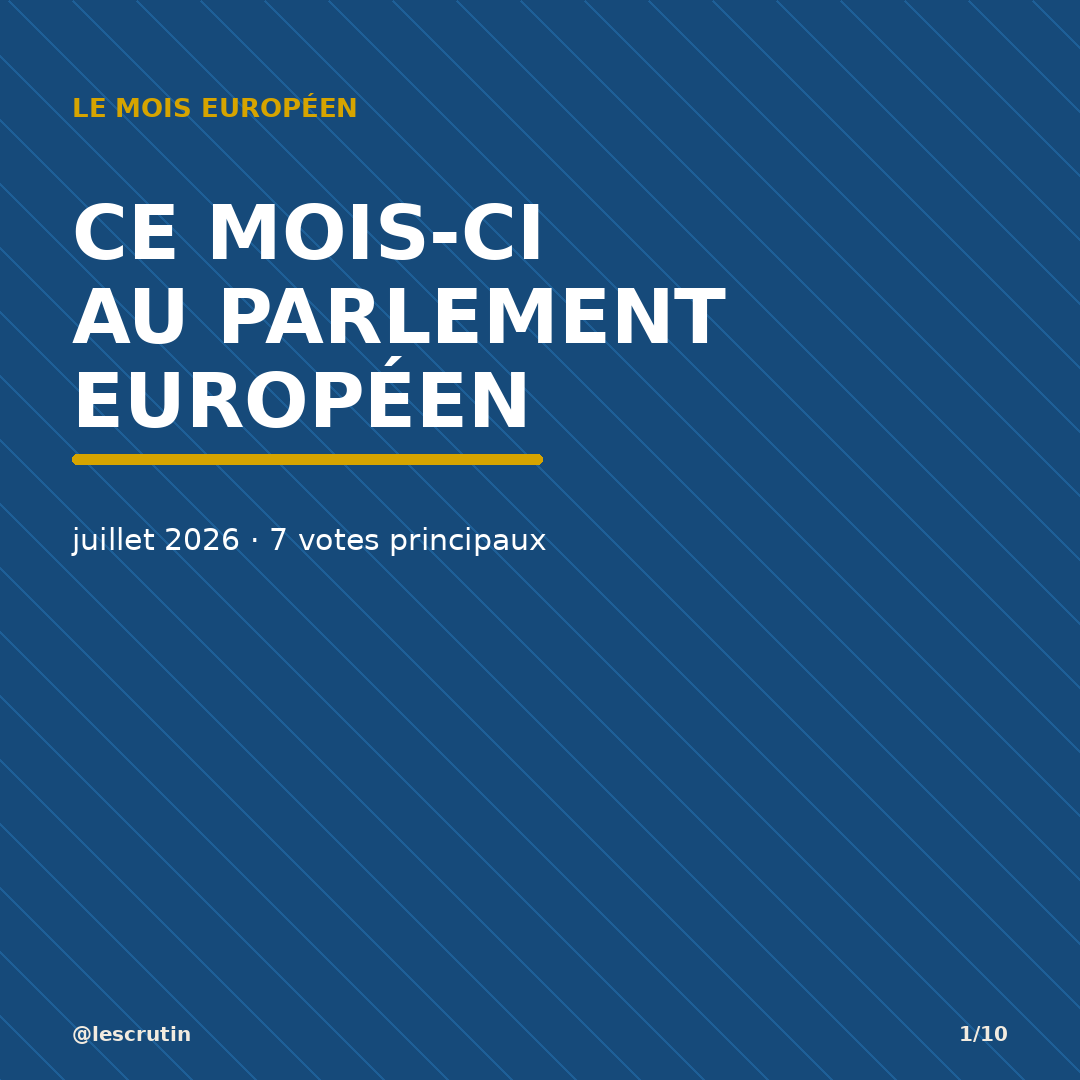
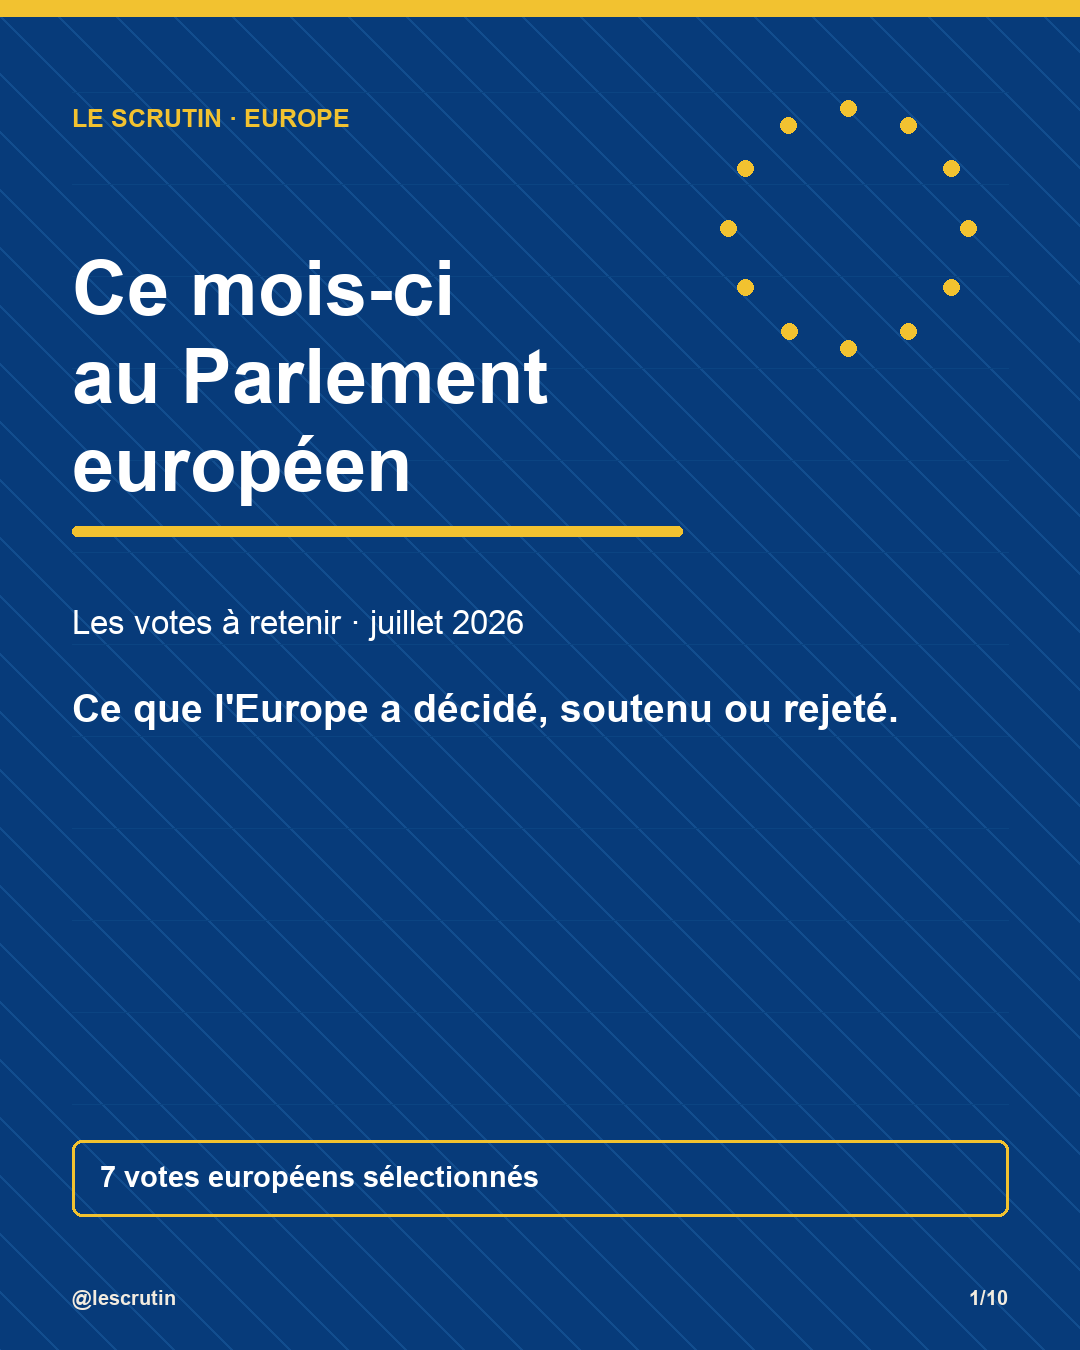
Redesign Europe monthly carousel

diff --git a/src/assemblee_votes/europe_monthly.py b/src/assemblee_votes/europe_monthly.py
@@ -3,6 +3,7 @@ from __future__ import annotations
 import calendar
 import html
 import json
+import math
 import os
 import re
 import textwrap
@@ -22,16 +23,19 @@ EP_OPEN_DATA_API = "https://data.europarl.europa.eu/api/v2"
 OPENAI_URL = "https://api.openai.com/v1/responses"
 OPENAI_MODEL = os.getenv("OPENAI_MODEL", "gpt-4.1-mini")
 
-SIZE = 1080
+WIDTH = 1080
+HEIGHT = 1350
+SIZE = WIDTH
 MARGIN = 72
 PAPER = "#F2EBDF"
 GRID = "#E3D9CA"
 TEXT = "#111111"
-EU_BLUE = "#164A7A"
-EU_GOLD = "#D6A400"
-FOR = "#164A7A"
-AGAINST = "#D8D0C4"
-ABSTENTION = "#8B6C4D"
+EU_BLUE = "#073B7A"
+EU_BLUE_2 = "#0E5AA3"
+EU_GOLD = "#F2C230"
+FOR = "#073B7A"
+AGAINST = "#D9D0C2"
+ABSTENTION = "#A87937"
 
 
 @dataclass(frozen=True)
@@ -391,49 +395,73 @@ def _draw_wrapped(
     return y
 
 
+def _fit_font(draw: ImageDraw.ImageDraw, text: str, max_width: int, start_size: int, min_size: int, bold: bool = True) -> ImageFont.ImageFont:
+    for size in range(start_size, min_size - 1, -2):
+        font = _font(size, bold=bold)
+        if _text_width(draw, text, font) <= max_width:
+            return font
+    return _font(min_size, bold=bold)
+
+
+def _sentence_limit(text: str, max_words: int = 40, max_sentences: int = 2) -> str:
+    clean = " ".join(text.split())
+    if not clean:
+        return ""
+    sentences = re.split(r"(?<=[.!?])\s+", clean)
+    selected = " ".join(sentence for sentence in sentences[:max_sentences] if sentence)
+    words = selected.split()
+    if len(words) > max_words:
+        selected = " ".join(words[:max_words]).rstrip(" ,;:") + "..."
+    return selected
+
+
 def _paper() -> tuple[Image.Image, ImageDraw.ImageDraw]:
-    img = Image.new("RGB", (SIZE, SIZE), PAPER)
+    img = Image.new("RGB", (WIDTH, HEIGHT), PAPER)
     draw = ImageDraw.Draw(img)
-    for x in range(0, SIZE, 36):
-        draw.line([(x, 0), (x, SIZE)], fill=GRID, width=1)
-    for y in range(0, SIZE, 36):
-        draw.line([(0, y), (SIZE, y)], fill=GRID, width=1)
+    for x in range(0, WIDTH, 36):
+        draw.line([(x, 0), (x, HEIGHT)], fill=GRID, width=1)
+    for y in range(0, HEIGHT, 36):
+        draw.line([(0, y), (WIDTH, y)], fill=GRID, width=1)
     return img, draw
 
 
 def _footer(draw: ImageDraw.ImageDraw, slide_number: int, total: int, dark: bool = False) -> None:
     fill = PAPER if dark else TEXT
     font = _font(20, bold=True)
-    draw.text((MARGIN, SIZE - 58), "@lescrutin", fill=fill, font=font)
+    draw.text((MARGIN, HEIGHT - 64), "@lescrutin", fill=fill, font=font)
     page = f"{slide_number}/{total}"
-    draw.text((SIZE - MARGIN - _text_width(draw, page, font), SIZE - 58), page, fill=fill, font=font)
+    draw.text((WIDTH - MARGIN - _text_width(draw, page, font), HEIGHT - 64), page, fill=fill, font=font)
 
 
 def draw_cover(output: str | Path, start: date, end: date, vote_count: int, total_slides: int) -> None:
-    img = Image.new("RGB", (SIZE, SIZE), EU_BLUE)
+    img = Image.new("RGB", (WIDTH, HEIGHT), EU_BLUE)
     draw = ImageDraw.Draw(img)
-    for x in range(-SIZE, SIZE * 2, 64):
-        draw.line([(x, 0), (x + SIZE, SIZE)], fill="#1E5F97", width=2)
+    for x in range(-HEIGHT, WIDTH * 2, 58):
+        draw.line([(x, 0), (x + HEIGHT, HEIGHT)], fill="#124D8E", width=2)
+    for y in range(92, HEIGHT - 160, 92):
+        draw.line((MARGIN, y, WIDTH - MARGIN, y), fill="#0B4482", width=1)
+    for i in range(12):
+        angle = i * 30
+        cx = WIDTH - 232 + int(120 * math.cos(math.radians(angle)))
+        cy = 228 + int(120 * math.sin(math.radians(angle)))
+        draw.ellipse((cx - 8, cy - 8, cx + 8, cy + 8), fill=EU_GOLD)
+    draw.rectangle((0, 0, WIDTH, 16), fill=EU_GOLD)
+    eyebrow = _font(25, bold=True)
     title = _font(76, bold=True)
-    subtitle = _font(30)
-    eyebrow = _font(26, bold=True)
-    draw.text((MARGIN, 92), "LE MOIS EUROPÉEN", fill=EU_GOLD, font=eyebrow)
-    y = 188
-    for line in ("CE MOIS-CI", "AU PARLEMENT", "EUROPÉEN"):
+    subtitle = _font(33)
+    sentence = _font(39, bold=True)
+    draw.text((MARGIN, 104), "LE SCRUTIN · EUROPE", fill=EU_GOLD, font=eyebrow)
+    y = 246
+    for line in ("Ce mois-ci", "au Parlement", "européen"):
         draw.text((MARGIN, y), line, fill="#FFFFFF", font=title)
-        y += 84
-    draw.rounded_rectangle((MARGIN, y + 14, MARGIN + 470, y + 24), radius=5, fill=EU_GOLD)
+        y += 88
+    draw.rounded_rectangle((MARGIN, y + 16, MARGIN + 610, y + 26), radius=5, fill=EU_GOLD)
+    y += 94
+    draw.text((MARGIN, y), f"Les votes à retenir · {_month_label(start)}", fill="#FFFFFF", font=subtitle)
     y += 82
-    _draw_wrapped(
-        draw,
-        (MARGIN, y),
-        f"{_month_label(start)} · {vote_count} votes principaux",
-        subtitle,
-        "#FFFFFF",
-        SIZE - 2 * MARGIN,
-        40,
-        2,
-    )
+    _draw_wrapped(draw, (MARGIN, y), "Ce que l'Europe a décidé, soutenu ou rejeté.", sentence, "#FFFFFF", WIDTH - 2 * MARGIN, 48, 2)
+    draw.rounded_rectangle((MARGIN, HEIGHT - 210, WIDTH - MARGIN, HEIGHT - 134), radius=10, outline=EU_GOLD, width=3)
+    draw.text((MARGIN + 28, HEIGHT - 190), f"{vote_count} votes européens sélectionnés", fill="#FFFFFF", font=_font(29, bold=True))
     _footer(draw, 1, total_slides, dark=True)
     Path(output).parent.mkdir(parents=True, exist_ok=True)
     img.save(output)
@@ -459,39 +487,64 @@ def _group_majorities(vote: EuropeVote) -> tuple[list[str], list[str], list[str]
 
 def draw_vote_slide(vote: EuropeVote, output: str | Path, slide_number: int, total_slides: int) -> None:
     img, draw = _paper()
-    badge = _font(24, bold=True)
-    title_font = _font(56, bold=True)
-    body_font = _font(27)
-    small = _font(23)
-    stat = _font(30, bold=True)
-    draw.rounded_rectangle((MARGIN, 72, MARGIN + 360, 118), radius=6, fill=EU_BLUE)
-    draw.text((MARGIN + 18, 82), "PARLEMENT EUROPÉEN", fill="#FFFFFF", font=badge)
-    draw.text((MARGIN, 144), f"Vote n°{vote.id} · {datetime.strptime(vote.date, '%Y-%m-%d').strftime('%d/%m/%Y')}", fill=TEXT, font=small)
-    y = _draw_wrapped(draw, (MARGIN, 202), vote.title.upper(), title_font, TEXT, SIZE - 2 * MARGIN, 62, 3)
-    draw.rounded_rectangle((MARGIN, y + 10, MARGIN + 390, y + 18), radius=4, fill=EU_GOLD)
-    y += 60
-    draw.text((MARGIN, y), vote.result, fill=TEXT, font=stat)
-    y += 58
+    draw.rectangle((0, 0, WIDTH, 14), fill=EU_BLUE)
+    draw.rectangle((0, 14, WIDTH, 20), fill=EU_GOLD)
+    badge = _font(22, bold=True)
+    title_font = _font(55, bold=True)
+    context_font = _font(23)
+    body_font = _font(26)
+    small = _font(22)
+    stat = _font(35, bold=True)
+    draw.rounded_rectangle((MARGIN, 66, MARGIN + 300, 110), radius=6, fill=EU_BLUE)
+    draw.text((MARGIN + 18, 76), "Parlement européen", fill="#FFFFFF", font=badge)
+    date_label = datetime.strptime(vote.date, "%Y-%m-%d").strftime("%d/%m/%Y")
+    draw.text((MARGIN, 136), f"Vote n°{vote.id} · {date_label}", fill="#5E5144", font=small)
+    y = _draw_wrapped(draw, (MARGIN, 188), vote.title, title_font, TEXT, WIDTH - 2 * MARGIN, 62, 3)
+    y += 18
+    status = vote.result.upper()
+    status_font = _fit_font(draw, status, 260, 36, 28, bold=True)
+    status_w = _text_width(draw, status, status_font) + 54
+    draw.rounded_rectangle((MARGIN, y, MARGIN + status_w, y + 52), radius=8, fill=EU_GOLD, outline=TEXT, width=2)
+    draw.text((MARGIN + 27, y + 9), status, fill=TEXT, font=status_font)
+    context = "Ce vote fixe la position du Parlement, ce n'est pas encore une adoption définitive."
+    _draw_wrapped(draw, (MARGIN + status_w + 28, y + 2), context, context_font, "#4D5660", WIDTH - 2 * MARGIN - status_w - 28, 30, 2)
+    y += 104
     totals = vote.totals
     total_votes = max(1, totals["pour"] + totals["contre"] + totals["abstention"])
     x = MARGIN
-    bar_y = y + 20
-    bar_w = SIZE - 2 * MARGIN
+    bar_y = y
+    bar_w = WIDTH - 2 * MARGIN
     for key, color in (("pour", FOR), ("contre", AGAINST), ("abstention", ABSTENTION)):
         width = int(bar_w * totals[key] / total_votes)
-        draw.rectangle((x, bar_y, x + width, bar_y + 34), fill=color)
+        draw.rectangle((x, bar_y, x + width, bar_y + 52), fill=color)
         x += width
-    draw.rectangle((MARGIN, bar_y, MARGIN + bar_w, bar_y + 34), outline=TEXT, width=2)
-    y = bar_y + 66
-    draw.text((MARGIN, y), f"{totals['pour']} pour / {totals['contre']} contre / {totals['abstention']} abst.", fill=TEXT, font=stat)
-    y += 58
+    draw.rectangle((MARGIN, bar_y, MARGIN + bar_w, bar_y + 52), outline=TEXT, width=2)
+    legend_y = bar_y + 68
+    legend_font = _font(20, bold=True)
+    lx = MARGIN
+    for key, label in (("pour", "POUR"), ("contre", "CONTRE"), ("abstention", "ABST.")):
+        draw.rectangle((lx, legend_y + 5, lx + 22, legend_y + 27), fill={"pour": FOR, "contre": AGAINST, "abstention": ABSTENTION}[key], outline=TEXT, width=1)
+        draw.text((lx + 32, legend_y), label, fill=TEXT, font=legend_font)
+        lx += 156
+    y = legend_y + 58
+    score = f"{totals['pour']} pour · {totals['contre']} contre · {totals['abstention']} abst."
+    draw.text((MARGIN, y), score, fill=TEXT, font=stat)
+    y += 82
     pour, contre, abst = _group_majorities(vote)
-    group_line = f"Majorités groupes · Pour : {', '.join(pour[:5]) or '-'} / Contre : {', '.join(contre[:4]) or '-'}"
-    y = _draw_wrapped(draw, (MARGIN, y), group_line, small, "#5E5144", SIZE - 2 * MARGIN, 31, 2)
-    y += 32
-    _draw_wrapped(draw, (MARGIN, y), vote.description, body_font, TEXT, SIZE - 2 * MARGIN, 34, 6)
-    source = "Sources : Parlement européen / HowTheyVote"
-    draw.text((MARGIN, SIZE - 104), source, fill="#5E5144", font=small)
+    col_w = (WIDTH - 2 * MARGIN - 26) // 2
+    box_h = 128
+    draw.rounded_rectangle((MARGIN, y, MARGIN + col_w, y + box_h), radius=8, fill="#FFFFFF", outline=GRID, width=2)
+    draw.rounded_rectangle((MARGIN + col_w + 26, y, WIDTH - MARGIN, y + box_h), radius=8, fill="#FFFFFF", outline=GRID, width=2)
+    draw.text((MARGIN + 22, y + 18), "Majorité pour", fill=FOR, font=_font(22, bold=True))
+    _draw_wrapped(draw, (MARGIN + 22, y + 54), ", ".join(pour[:4]) or "-", small, TEXT, col_w - 44, 28, 2)
+    draw.text((MARGIN + col_w + 48, y + 18), "Majorité contre", fill="#6F5F4F", font=_font(22, bold=True))
+    _draw_wrapped(draw, (MARGIN + col_w + 48, y + 54), ", ".join(contre[:4]) or "-", small, TEXT, col_w - 44, 28, 2)
+    y += box_h + 52
+    draw.text((MARGIN, y), "À retenir", fill=EU_BLUE, font=_font(25, bold=True))
+    y += 38
+    _draw_wrapped(draw, (MARGIN, y), _sentence_limit(vote.description), body_font, TEXT, WIDTH - 2 * MARGIN, 34, 4)
+    source = "Sources : Parlement européen · OEIL · HowTheyVote"
+    draw.text((MARGIN, HEIGHT - 118), source, fill="#5E5144", font=small)
     _footer(draw, slide_number, total_slides)
     Path(output).parent.mkdir(parents=True, exist_ok=True)
     img.save(output)
@@ -499,24 +552,26 @@ def draw_vote_slide(vote: EuropeVote, output: str | Path, slide_number: int, tot
 
 def draw_definitions(output: str | Path, slide_number: int, total_slides: int) -> None:
     img, draw = _paper()
-    title = _font(62, bold=True)
-    heading = _font(29, bold=True)
-    body = _font(26)
-    draw.text((MARGIN, 80), "COMPRENDRE", fill=TEXT, font=title)
-    draw.text((MARGIN, 146), "L'EUROPE", fill=TEXT, font=title)
-    draw.rounded_rectangle((MARGIN, 224, MARGIN + 420, 232), radius=4, fill=EU_GOLD)
-    y = 292
+    draw.rectangle((0, 0, WIDTH, 14), fill=EU_BLUE)
+    draw.rectangle((0, 14, WIDTH, 20), fill=EU_GOLD)
+    title = _font(65, bold=True)
+    heading = _font(31, bold=True)
+    body = _font(25)
+    draw.text((MARGIN, 94), "Comprendre", fill=TEXT, font=title)
+    draw.text((MARGIN, 166), "les mots de l'Europe", fill=EU_BLUE, font=title)
+    draw.rounded_rectangle((MARGIN, 260, MARGIN + 510, 270), radius=4, fill=EU_GOLD)
+    y = 336
     items = [
-        ("Règlement", "Texte applicable directement dans les États membres une fois adopté."),
-        ("Directive", "Objectif commun européen que chaque État doit transposer dans son droit national."),
-        ("Résolution", "Position politique du Parlement européen. Elle peut peser, sans être toujours une loi."),
-        ("Trilogues", "Négociations entre Parlement, Conseil et Commission pour parvenir à un texte commun."),
+        ("Règlement", "Une règle européenne directement applicable dans les États membres."),
+        ("Directive", "Un objectif commun que chaque État doit transposer dans son droit."),
+        ("Résolution", "Une position politique du Parlement, pas toujours une loi."),
+        ("Trilogue", "Une négociation entre Parlement, Conseil et Commission."),
     ]
     for h, b in items:
-        draw.text((MARGIN, y), h.upper(), fill=TEXT, font=heading)
-        y += 38
-        y = _draw_wrapped(draw, (MARGIN, y), b, body, TEXT, SIZE - 2 * MARGIN, 32, 2)
-        y += 34
+        draw.rounded_rectangle((MARGIN, y, WIDTH - MARGIN, y + 132), radius=8, fill="#FFFFFF", outline=GRID, width=2)
+        draw.text((MARGIN + 26, y + 22), h, fill=EU_BLUE, font=heading)
+        _draw_wrapped(draw, (MARGIN + 26, y + 66), b, body, TEXT, WIDTH - 2 * MARGIN - 52, 32, 1)
+        y += 160
     _footer(draw, slide_number, total_slides)
     Path(output).parent.mkdir(parents=True, exist_ok=True)
     img.save(output)
@@ -524,18 +579,20 @@ def draw_definitions(output: str | Path, slide_number: int, total_slides: int) -
 
 def draw_cta(output: str | Path, slide_number: int, total_slides: int) -> None:
     img, draw = _paper()
-    title = _font(64, bold=True)
-    body = _font(31)
-    y = 126
-    for line in ("SUIVRE", "CE QUI SE VOTE", "SANS SE PERDRE"):
-        draw.text((MARGIN, y), line, fill=TEXT, font=title)
-        y += 72
-    draw.rounded_rectangle((MARGIN, y + 8, MARGIN + 430, y + 16), radius=4, fill=EU_GOLD)
-    y += 84
-    y = _draw_wrapped(draw, (MARGIN, y), "Chaque mois, un résumé sourcé des votes importants au Parlement européen.", body, TEXT, SIZE - 2 * MARGIN, 42, 4)
-    y += 54
-    _draw_wrapped(draw, (MARGIN, y), "Projet bénévole, neutre et automatisé. Abonnez-vous pour le soutenir.", body, TEXT, SIZE - 2 * MARGIN, 42, 4)
-    draw.text((MARGIN, 790), "@lescrutin", fill=EU_BLUE, font=_font(42, bold=True))
+    draw.rectangle((0, 0, WIDTH, 18), fill=EU_BLUE)
+    title = _font(72, bold=True)
+    body = _font(32)
+    y = 138
+    for line in ("Suivre", "ce qui se vote,", "sans se perdre."):
+        draw.text((MARGIN, y), line, fill=TEXT if line != "sans se perdre." else EU_BLUE, font=title)
+        y += 84
+    draw.rounded_rectangle((MARGIN, y + 18, MARGIN + 540, y + 28), radius=4, fill=EU_GOLD)
+    y += 108
+    y = _draw_wrapped(draw, (MARGIN, y), "Projet bénévole, neutre et sourcé.", body, TEXT, WIDTH - 2 * MARGIN, 42, 2)
+    y += 64
+    _draw_wrapped(draw, (MARGIN, y), "Abonnez-vous pour suivre l'actualité politique française et européenne.", body, TEXT, WIDTH - 2 * MARGIN, 42, 3)
+    draw.rounded_rectangle((MARGIN, HEIGHT - 248, WIDTH - MARGIN, HEIGHT - 152), radius=12, fill=EU_BLUE)
+    draw.text((MARGIN + 34, HEIGHT - 222), "@lescrutin", fill="#FFFFFF", font=_font(40, bold=True))
     _footer(draw, slide_number, total_slides)
     Path(output).parent.mkdir(parents=True, exist_ok=True)
     img.save(output)
